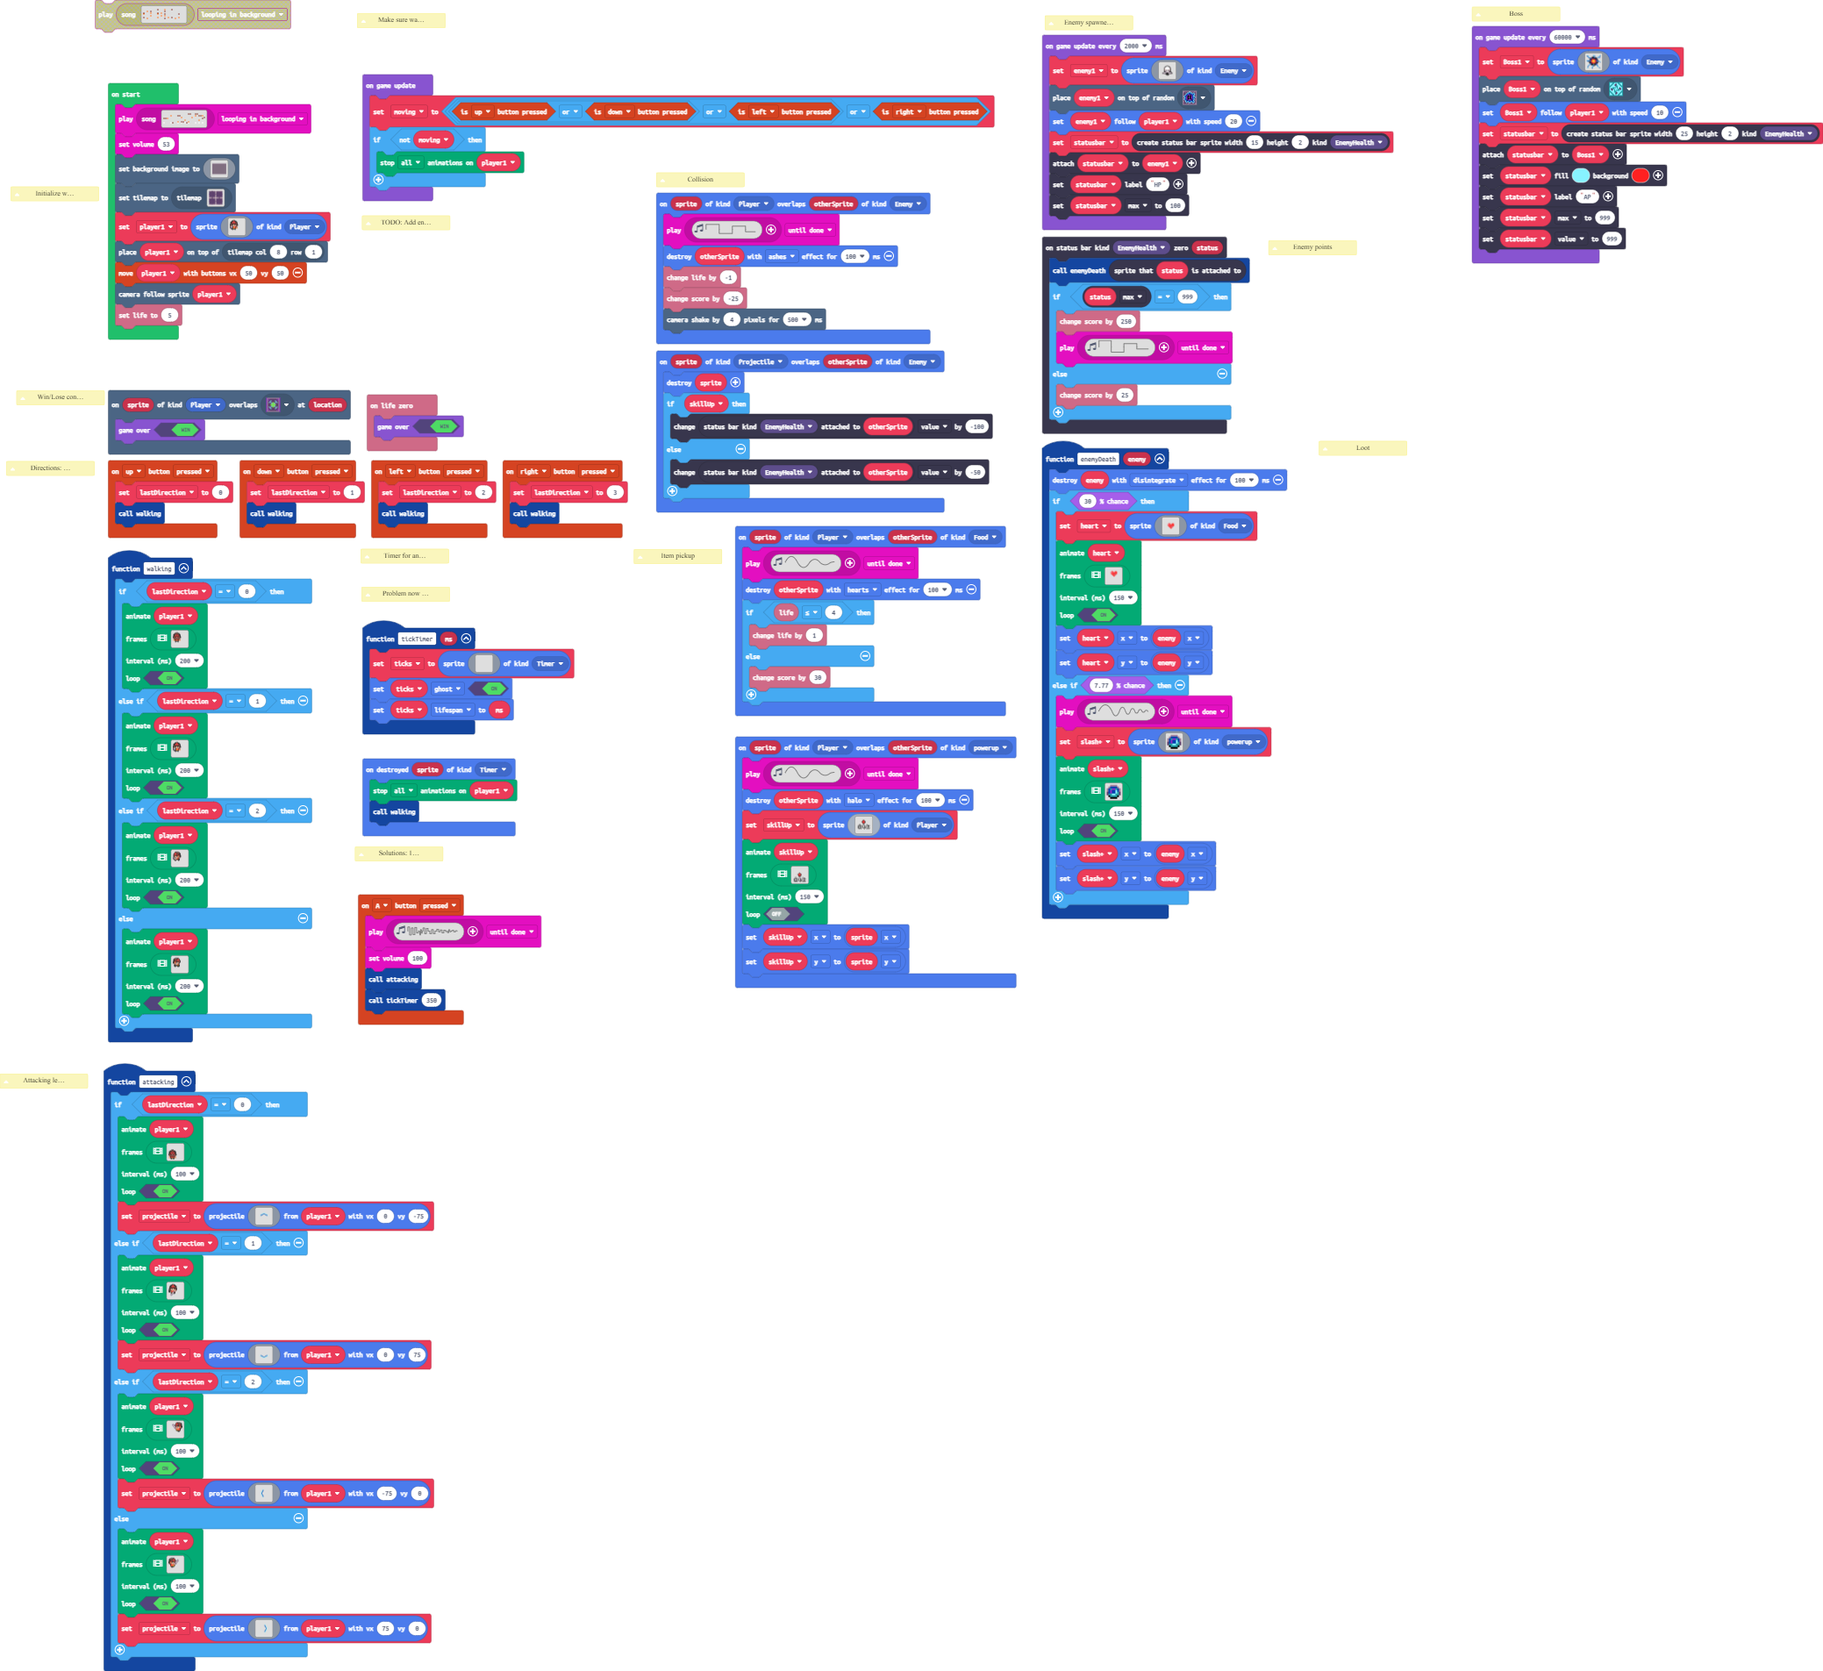
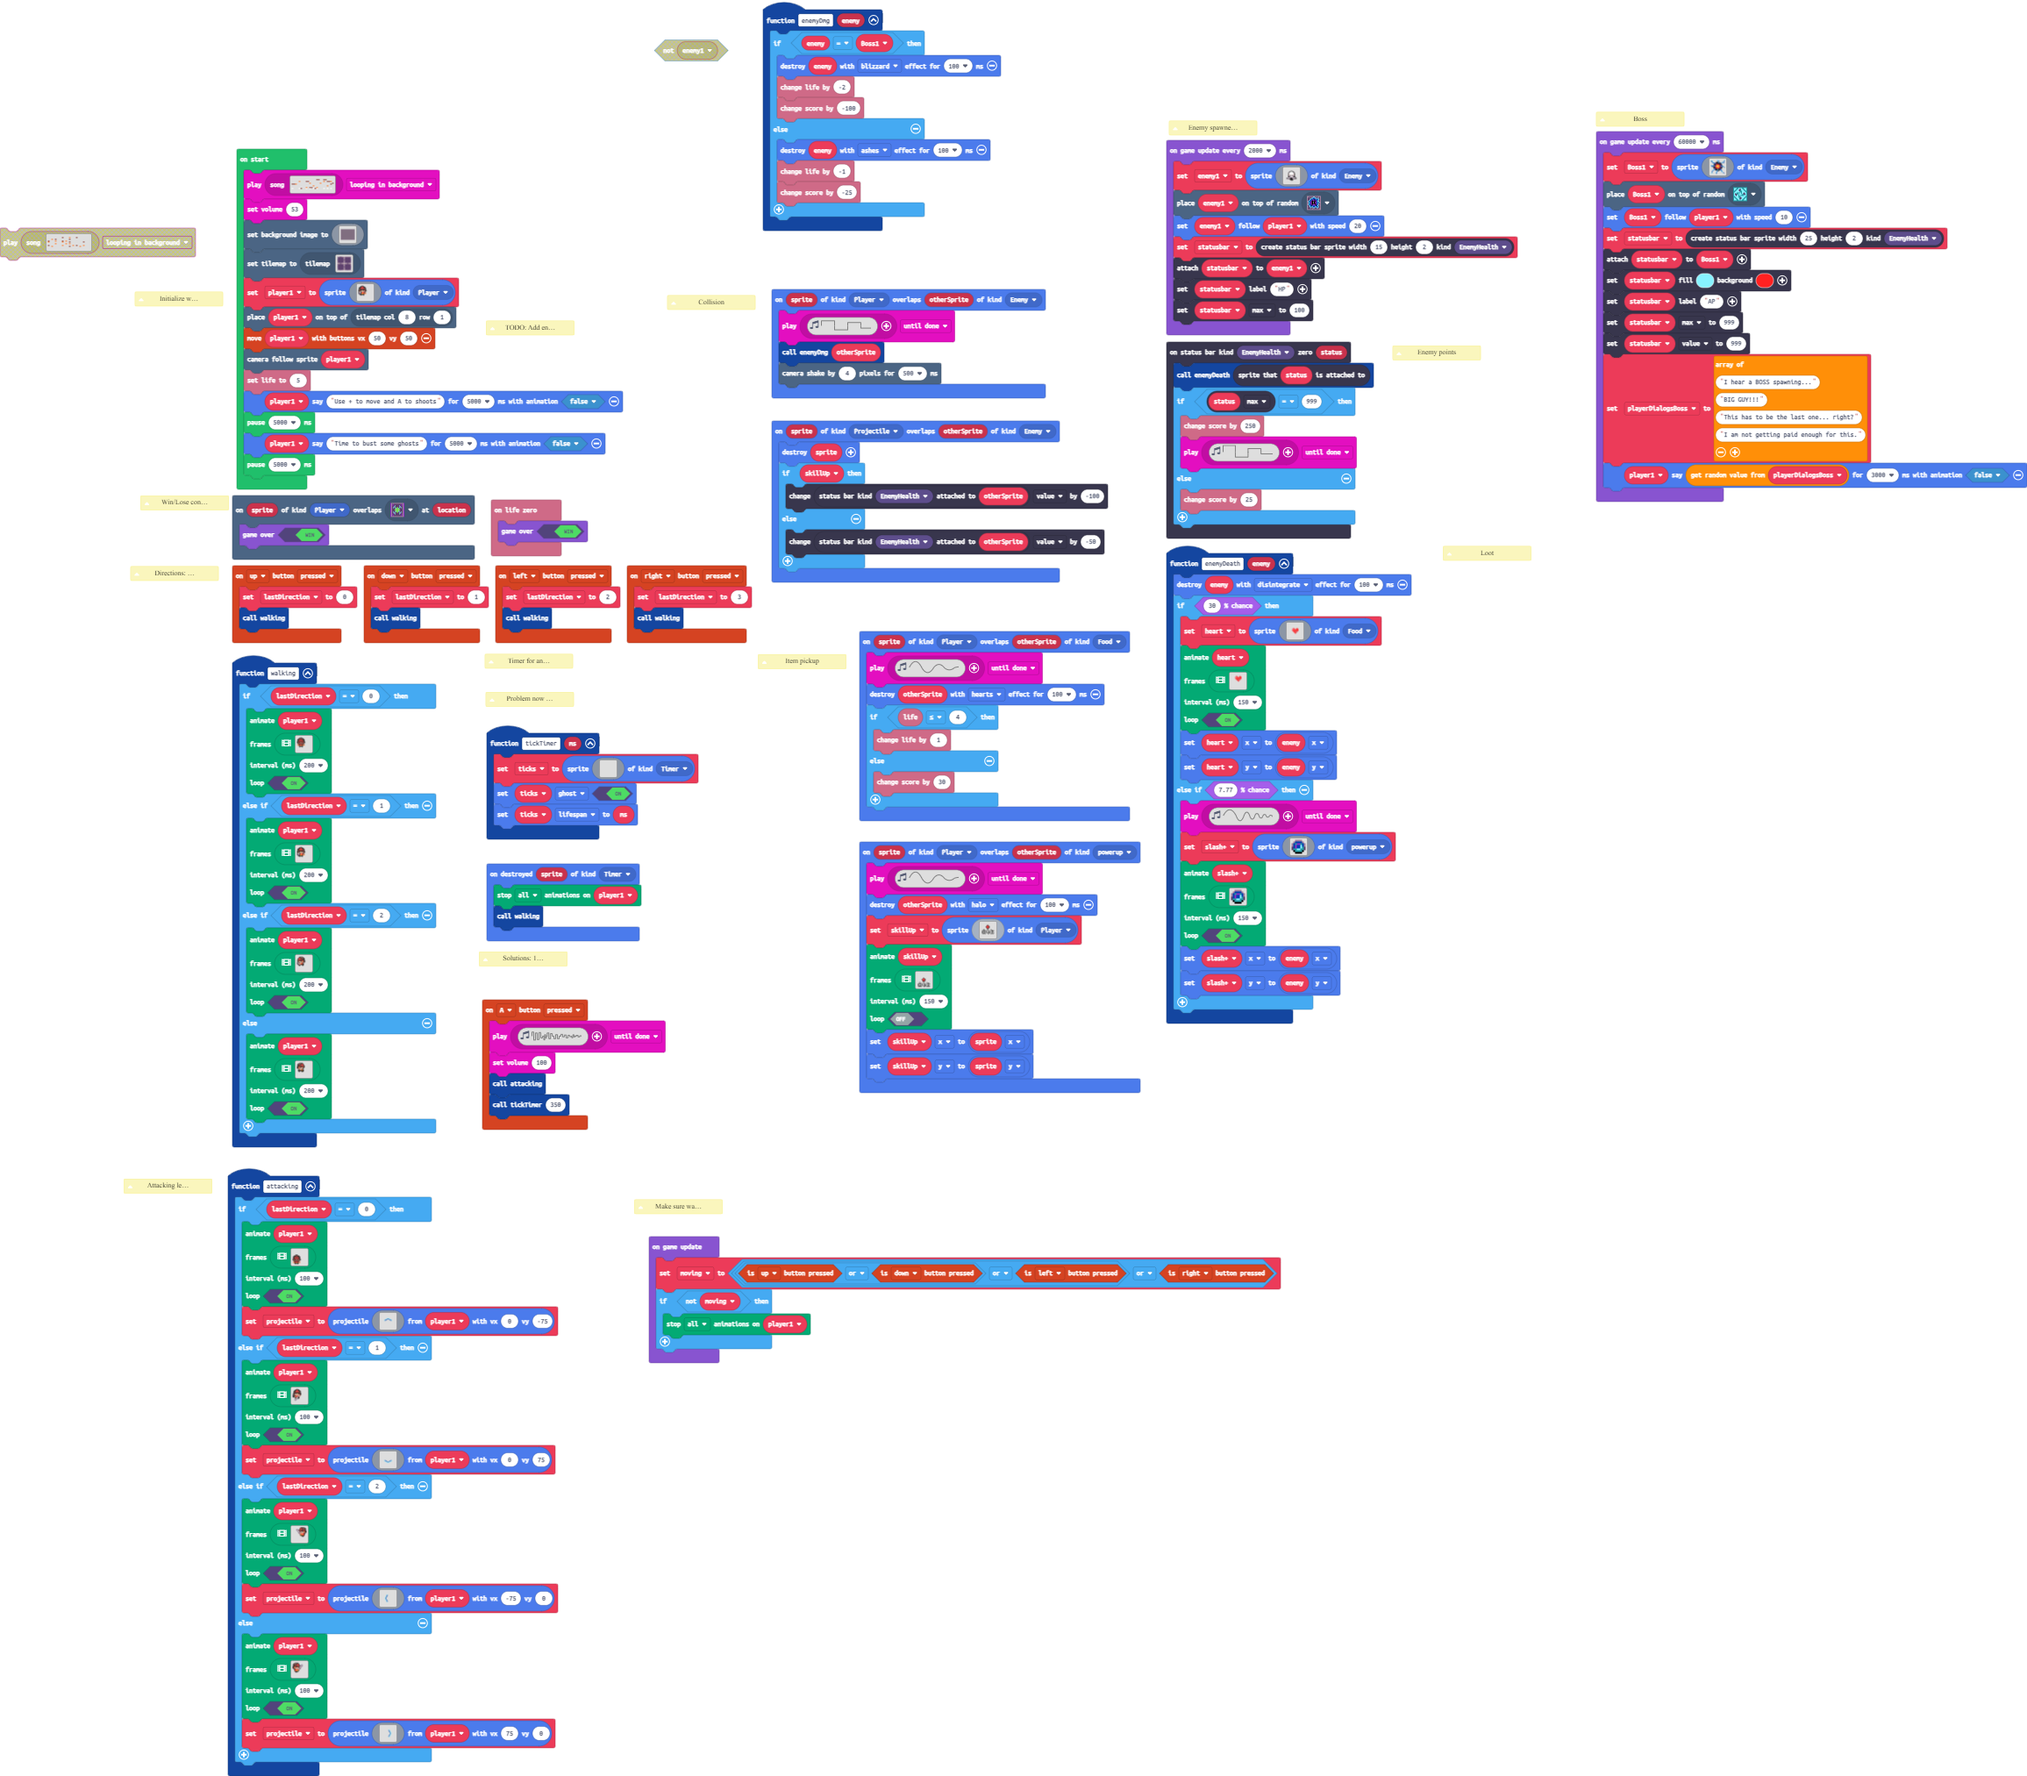
Added dialogue, bug: boss doesn't always deal 2 dmg

diff --git a/main.ts b/main.ts
@@ -9,11 +9,7 @@ namespace SpriteKind {
  * Set player & enemy spawn point
  */
 /**
- * TODO:
- * 
- * Add enemy animations
- * 
- * Add item animations
+ * Collision
  */
 /**
  * Enemy points
@@ -74,6 +70,17 @@ function tickTimer (ms: number) {
         `, SpriteKind.Timer)
     ticks.setFlag(SpriteFlag.Ghost, true)
     ticks.lifespan = ms
+}
+function enemyDmg (enemy: Sprite) {
+    if (enemy == Boss1) {
+        sprites.destroy(enemy, effects.blizzard, 100)
+        info.changeLifeBy(-2)
+        info.changeScoreBy(-100)
+    } else {
+        sprites.destroy(enemy, effects.ashes, 100)
+        info.changeLifeBy(-1)
+        info.changeScoreBy(-25)
+    }
 }
 scene.onOverlapTile(SpriteKind.Player, assets.tile`myTile15`, function (sprite, location) {
     game.gameOver(true)
@@ -1481,12 +1488,17 @@ sprites.onOverlap(SpriteKind.Projectile, SpriteKind.Enemy, function (sprite, oth
 })
 sprites.onOverlap(SpriteKind.Player, SpriteKind.Enemy, function (sprite, otherSprite) {
     music.play(music.createSoundEffect(WaveShape.Square, 1, 1, 192, 58, 100, SoundExpressionEffect.Warble, InterpolationCurve.Curve), music.PlaybackMode.UntilDone)
-    sprites.destroy(otherSprite, effects.ashes, 100)
-    info.changeLifeBy(-1)
-    info.changeScoreBy(-25)
+    enemyDmg(otherSprite)
     scene.cameraShake(4, 500)
 })
-let Boss1: Sprite = null
+/**
+ * TODO:
+ * 
+ * Add enemy animations
+ * 
+ * Add item animations
+ */
+let playerDialogsBoss: string[] = []
 let statusbar: StatusBarSprite = null
 let enemy1: Sprite = null
 let moving = false
@@ -1494,6 +1506,7 @@ let skillUp: Sprite = null
 let projectile: Sprite = null
 let slash: Sprite = null
 let heart: Sprite = null
+let Boss1: Sprite = null
 let ticks: Sprite = null
 let lastDirection = 0
 let player1: Sprite = null
@@ -1652,11 +1665,12 @@ tiles.placeOnTile(player1, tiles.getTileLocation(8, 1))
 controller.moveSprite(player1, 50, 50)
 scene.cameraFollowSprite(player1)
 info.setLife(5)
+player1.sayText("Use + to move and A to shoots", 5000, false)
+pause(5000)
+player1.sayText("Time to bust some ghosts", 5000, false)
+pause(5000)
 /**
  * Make sure walking animation is on only when player is moving
- */
-/**
- * Collision
  */
 game.onUpdate(function () {
     moving = controller.up.isPressed() || controller.down.isPressed() || controller.left.isPressed() || controller.right.isPressed()
@@ -1739,4 +1753,11 @@ game.onUpdateInterval(60000, function () {
     statusbar.setLabel("AP")
     statusbar.max = 999
     statusbar.value = 999
+    playerDialogsBoss = [
+    "I hear a BOSS spawning...",
+    "BIG GUY!!!",
+    "This has to be the last one... right?",
+    "I am not getting paid enough for this."
+    ]
+    player1.sayText(playerDialogsBoss._pickRandom(), 3000, false)
 })
